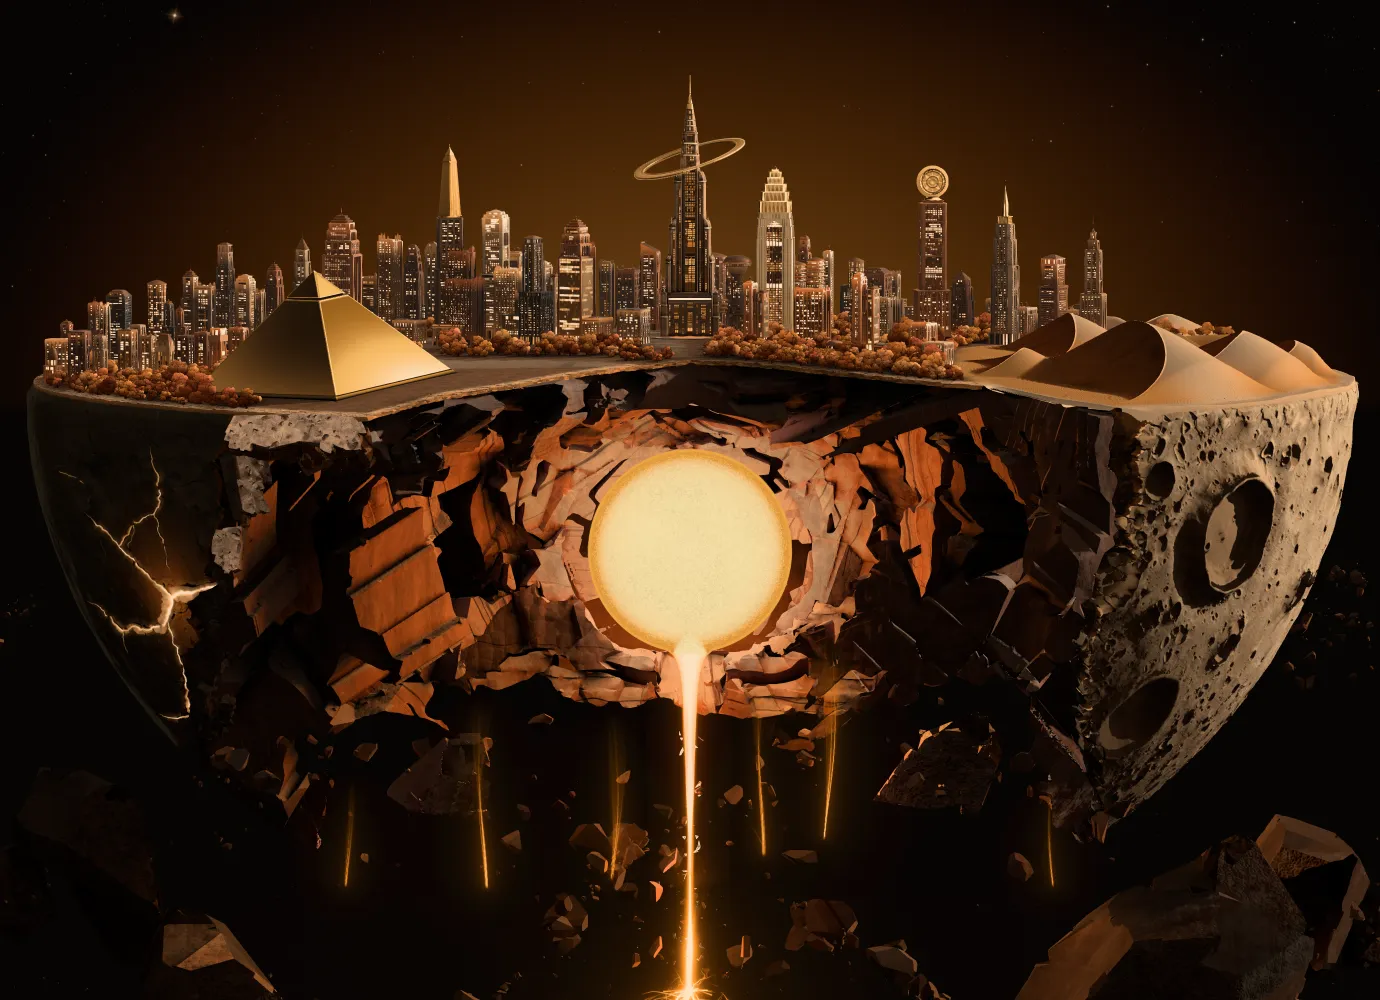
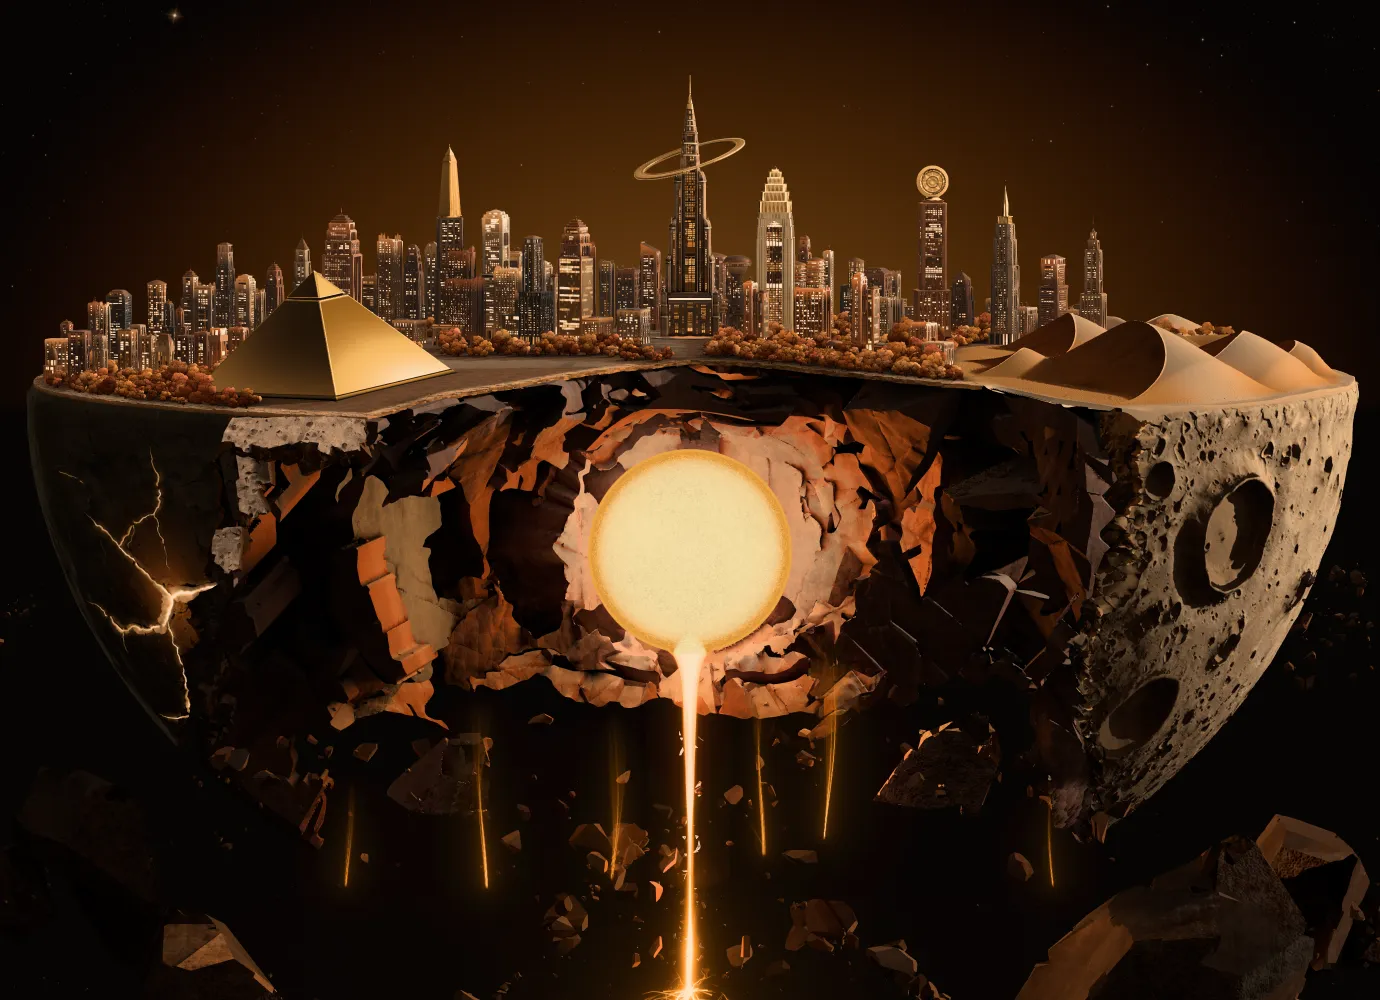
The log at ten past nine, and the stills taken again from the build that is pushed

diff --git a/LOG.md b/LOG.md
@@ -198,6 +198,10 @@ Newest first. One entry per piece of work. Say what was done, what Brandon said,
     - **What it is now** (the city's round 11, one Opus builder from `towers-r11.md`, judged by Fable beside his screenshot): warm cream piers as bundles with flutes and stepped reveals, three shoulders with gold beaks that bring the shaft in to the crown's own width, a deep bay of floors lit in runs with two bright double height floors, a stepped head with a gold sunburst, and the crown on a reeded frieze. Plainly better than it was, at the page's size and close.
     - **Short, by its builder and by Fable:** at the page's size the two double height floors are hard cream bars, the brightest things on the tower, because the shared far window filter boosts dense lit runs (`towers/windows.ts`, shared by every building, so it was left alone). The bay is a muted amber at three times. The lantern reads only faintly. No fresh reviewers have judged it: his own eye is the review that matters, and he has been asked.
     - **Running:** `rock-r` 8, `land` 8. Resting: spire, skin, core, pyramid, trees, city. Waiting on the rock: `debris` 8.
+- **About 09:10, by Fable:**
+    - `rock-r` round 8 is kept (its builder's 5, no reviewers: the board stack at the left is one broad tan slab, no bedding lines are left anywhere, the bowl's rim is five pieces with black between them reaching the ball, the straight seam at the right is gone). The small, exact brief worked where three whole reworks did not. The skin and the debris were made again against it in the scratch copy. **Open for the frame, from its builder:** the roof's crust cannot reach picture 9's brightness (0.104 against 0.191) because the rock takes no light from the visitor's side, and the picture's crust plainly does. A soft front light on the crust alone is the fix to try, and it was tried once as `CRUST_LIGHT` and lit a flat wall under the dunes: break that wall first.
+    - `land` round 8 is not kept, on `kept/land-r8` (5.5 and 5.5: real crescents at three times, and on the page a darker desert, dark faces 45 percent of it against picture 9's 17, with a black comb of saw teeth at the great dune's foot). Round 7 stays live and the land's working files are round 7's. **For the next round:** round 7 with crescent horns only where they do not grow the dark faces (a fifth of the desert at most), the comb's cause found first (a march over the height grid that flips from pixel to pixel), specks faded by `fwidth`.
+    - **Nothing is running.** Resting: spire, skin, core, pyramid, trees, city. Next to launch, as one Opus builder each with the Agent tool: `debris` 8 against the new rock (real breaks in the great pieces, a moonlit rim back), `land` 9, and a follow up on his tower once he has looked (soften the two bright floors).
 - **Still to do before he wakes:** the hero joined to the new world so the page scrolls to Contact, `npm run mem` and `npm run perf`, a production build, the push, the overlays and side by sides kept in `reference/studies/`, and a plain account of what is at the bar and what is not.
 
 ## 2026-11-15 · The frame corrected to picture 9, and the rock traced from the picture (Fable, Claude Code)
